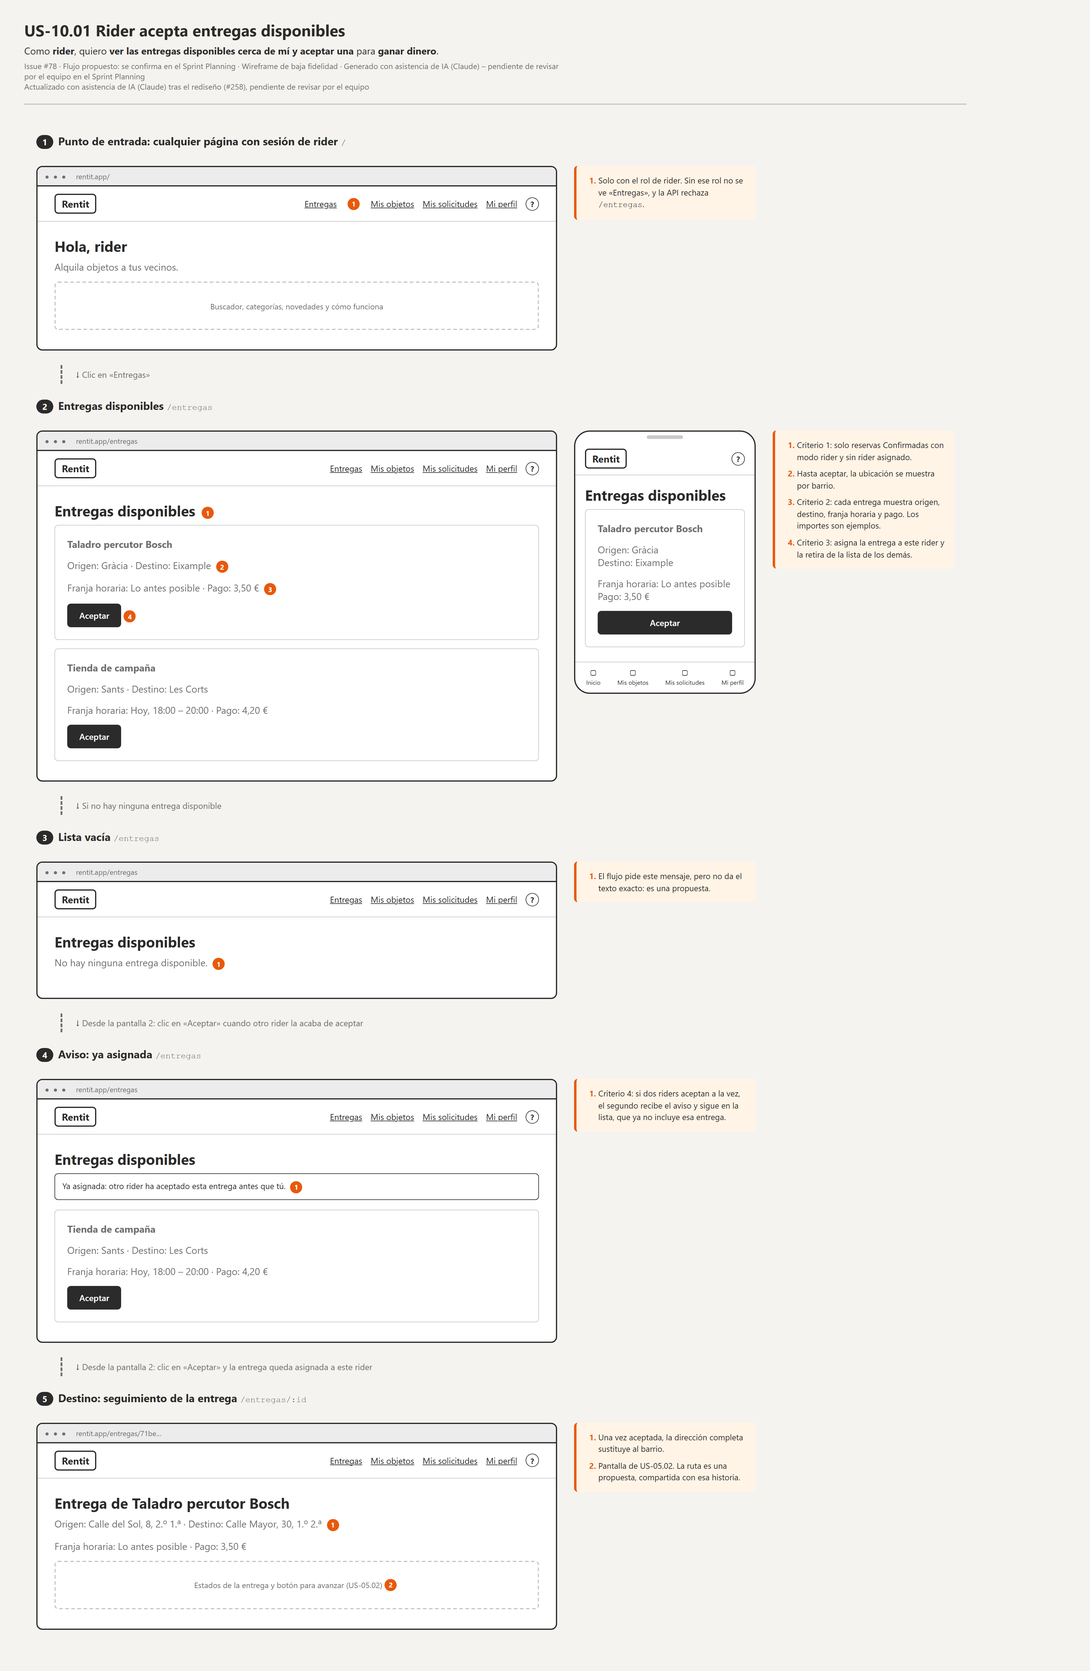
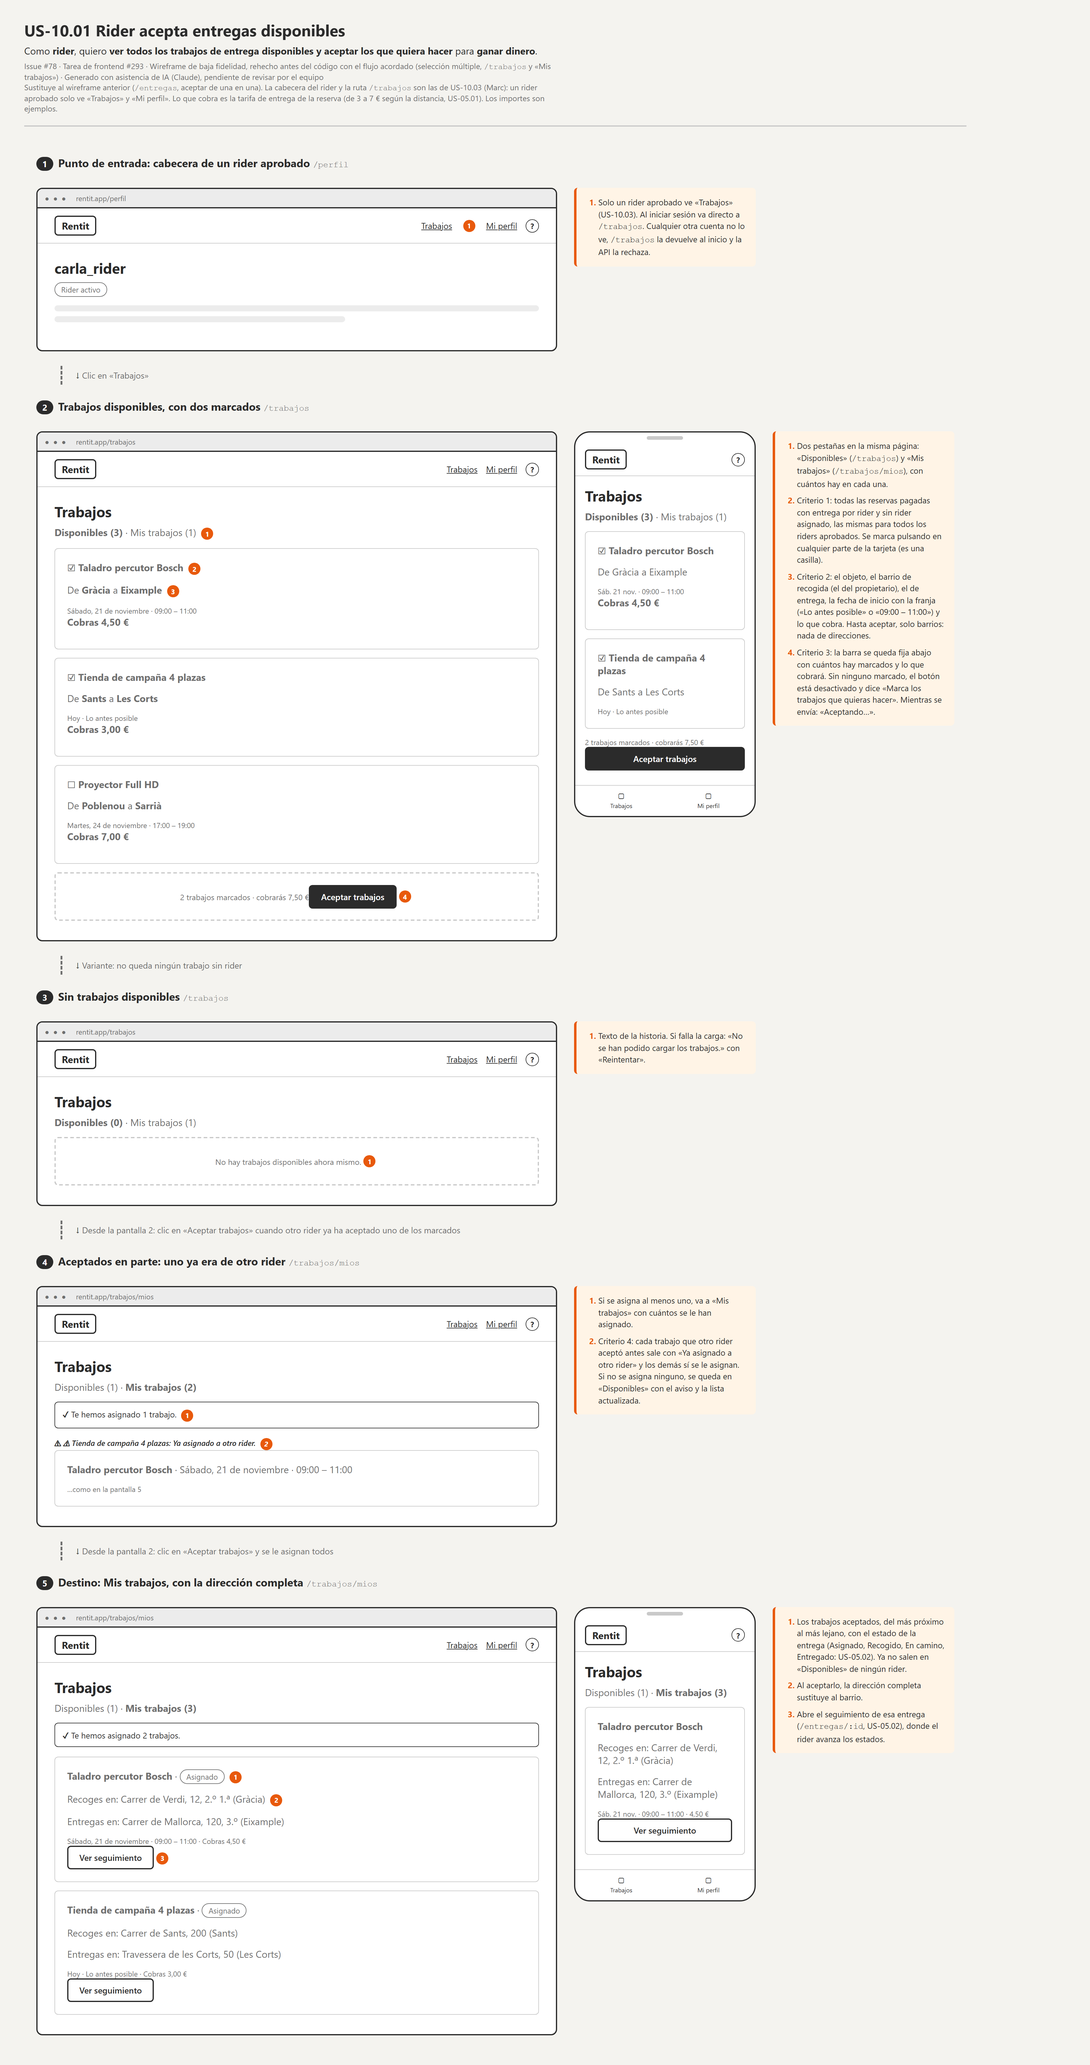
docs(wireframe): US-10.01 panel del rider con selección múltiple y «Mis trabajos», antes del código (#293)

diff --git a/docs/wireframes/US-10.01-rider-entregas/index.html b/docs/wireframes/US-10.01-rider-entregas/index.html
@@ -9,174 +9,236 @@
     <header class="wf-doc">
       <h1>US-10.01 Rider acepta entregas disponibles</h1>
       <p class="wf-historia">
-        Como <strong>rider</strong>, quiero <strong>ver las entregas disponibles cerca de mí y aceptar una</strong> para
-        <strong>ganar dinero</strong>.
+        Como <strong>rider</strong>, quiero <strong>ver todos los trabajos de entrega disponibles y aceptar los que quiera
+        hacer</strong> para <strong>ganar dinero</strong>.
       </p>
       <p class="wf-meta">
-        Issue #78 · Flujo propuesto: se confirma en el Sprint Planning · Wireframe de baja fidelidad · Generado con
-        asistencia de IA (Claude) – pendiente de revisar por el equipo en el Sprint Planning
+        Issue #78 · Tarea de frontend #293 · Wireframe de baja fidelidad, rehecho antes del código con el flujo acordado
+        (selección múltiple, <code>/trabajos</code> y «Mis trabajos») · Generado con asistencia de IA (Claude), pendiente
+        de revisar por el equipo
       </p>
-      <p class="wf-meta">Actualizado con asistencia de IA (Claude) tras el rediseño (#258), pendiente de revisar por el equipo</p>
+      <p class="wf-meta">
+        Sustituye al wireframe anterior (<code>/entregas</code>, aceptar de una en una). La cabecera del rider y la ruta
+        <code>/trabajos</code> son las de US-10.03 (Marc): un rider aprobado solo ve «Trabajos» y «Mi perfil». Lo que cobra
+        es la tarifa de entrega de la reserva (de 3 a 7 € según la distancia, US-05.01). Los importes son ejemplos.
+      </p>
     </header>
 
     <section class="wf-pantalla" data-captura="1-entrada">
-      <h2><span class="wf-paso">1</span>Punto de entrada: cualquier página con sesión de rider <code>/</code></h2>
+      <h2><span class="wf-paso">1</span>Punto de entrada: cabecera de un rider aprobado <code>/perfil</code></h2>
       <div class="wf-dispositivos">
-        <div class="wf-escritorio" data-url="rentit.app/">
+        <div class="wf-escritorio" data-url="rentit.app/perfil">
           <nav class="wf-nav">
             <span class="wf-logo">Rentit</span>
-            <span class="wf-enlaces">
-              <span class="wf-enlace">Entregas</span><span class="wf-marca">1</span>
-              <span class="wf-enlace">Mis objetos</span>
-              <span class="wf-enlace">Mis solicitudes</span>
-              <span class="wf-enlace">Mi perfil</span><span class="wf-icono-ayuda" title="Ayuda">?</span></span>
+            <span class="wf-enlaces"><span class="wf-enlace">Trabajos</span><span class="wf-marca">1</span><span class="wf-enlace">Mi perfil</span><span class="wf-icono-ayuda" title="Ayuda">?</span></span>
           </nav>
           <div class="wf-contenido">
-            <h3 class="wf-h1">Hola, rider</h3>
-            <p class="wf-texto">Alquila objetos a tus vecinos.</p>
-            <div class="wf-caja">Buscador, categorías, novedades y cómo funciona</div>
+            <h3 class="wf-h1">carla_rider</h3>
+            <p class="wf-texto"><span class="wf-chip">Rider activo</span></p>
+            <div class="wf-lineas"><span></span><span></span></div>
           </div>
         </div>
       </div>
       <ol class="wf-notas">
-        <li>Solo con el rol de rider. Sin ese rol no se ve «Entregas», y la API rechaza <code>/entregas</code>.</li>
+        <li>
+          Solo un rider aprobado ve «Trabajos» (US-10.03). Al iniciar sesión va directo a <code>/trabajos</code>. Cualquier
+          otra cuenta no lo ve, <code>/trabajos</code> la devuelve al inicio y la API la rechaza.
+        </li>
       </ol>
     </section>
 
-    <p class="wf-flecha">Clic en «Entregas»</p>
+    <p class="wf-flecha">Clic en «Trabajos»</p>
 
-    <section class="wf-pantalla" data-captura="2-lista">
-      <h2><span class="wf-paso">2</span>Entregas disponibles <code>/entregas</code></h2>
+    <section class="wf-pantalla" data-captura="2-disponibles">
+      <h2><span class="wf-paso">2</span>Trabajos disponibles, con dos marcados <code>/trabajos</code></h2>
       <div class="wf-dispositivos">
-        <div class="wf-escritorio" data-url="rentit.app/entregas">
+        <div class="wf-escritorio" data-url="rentit.app/trabajos">
           <nav class="wf-nav">
             <span class="wf-logo">Rentit</span>
-            <span class="wf-enlaces">
-              <span class="wf-enlace">Entregas</span>
-              <span class="wf-enlace">Mis objetos</span>
-              <span class="wf-enlace">Mis solicitudes</span>
-              <span class="wf-enlace">Mi perfil</span><span class="wf-icono-ayuda" title="Ayuda">?</span></span>
+            <span class="wf-enlaces"><span class="wf-enlace">Trabajos</span><span class="wf-enlace">Mi perfil</span><span class="wf-icono-ayuda" title="Ayuda">?</span></span>
           </nav>
           <div class="wf-contenido">
-            <h3 class="wf-h1">Entregas disponibles <span class="wf-marca">1</span></h3>
+            <h3 class="wf-h1">Trabajos</h3>
+            <p class="wf-texto"><strong>Disponibles (3)</strong> · Mis trabajos (1) <span class="wf-marca">1</span></p>
             <div class="wf-tarjeta">
-              <p class="wf-texto"><strong>Taladro percutor Bosch</strong></p>
-              <p class="wf-texto">Origen: Gràcia · Destino: Eixample <span class="wf-marca">2</span></p>
-              <p class="wf-texto">Franja horaria: Lo antes posible · Pago: 3,50 € <span class="wf-marca">3</span></p>
-              <span class="wf-boton">Aceptar</span><span class="wf-marca">4</span>
+              <p class="wf-texto">☑ <strong>Taladro percutor Bosch</strong> <span class="wf-marca">2</span></p>
+              <p class="wf-texto">De <strong>Gràcia</strong> a <strong>Eixample</strong> <span class="wf-marca">3</span></p>
+              <p class="wf-ayuda">Sábado, 21 de noviembre · 09:00 – 11:00</p>
+              <p class="wf-texto"><strong>Cobras 4,50 €</strong></p>
             </div>
             <p class="wf-texto"></p>
             <div class="wf-tarjeta">
-              <p class="wf-texto"><strong>Tienda de campaña</strong></p>
-              <p class="wf-texto">Origen: Sants · Destino: Les Corts</p>
-              <p class="wf-texto">Franja horaria: Hoy, 18:00 – 20:00 · Pago: 4,20 €</p>
-              <span class="wf-boton">Aceptar</span>
+              <p class="wf-texto">☑ <strong>Tienda de campaña 4 plazas</strong></p>
+              <p class="wf-texto">De <strong>Sants</strong> a <strong>Les Corts</strong></p>
+              <p class="wf-ayuda">Hoy · Lo antes posible</p>
+              <p class="wf-texto"><strong>Cobras 3,00 €</strong></p>
+            </div>
+            <p class="wf-texto"></p>
+            <div class="wf-tarjeta">
+              <p class="wf-texto">☐ <strong>Proyector Full HD</strong></p>
+              <p class="wf-texto">De <strong>Poblenou</strong> a <strong>Sarrià</strong></p>
+              <p class="wf-ayuda">Martes, 24 de noviembre · 17:00 – 19:00</p>
+              <p class="wf-texto"><strong>Cobras 7,00 €</strong></p>
+            </div>
+            <p class="wf-texto"></p>
+            <div class="wf-caja">2 trabajos marcados · cobrarás 7,50 € <span class="wf-boton">Aceptar trabajos</span> <span class="wf-marca">4</span></div>
+          </div>
+        </div>
+        <div class="wf-movil">
+          <nav class="wf-nav"><span class="wf-logo">Rentit</span><span class="wf-icono-ayuda" title="Ayuda">?</span></nav>
+          <div class="wf-contenido">
+            <h3 class="wf-h1">Trabajos</h3>
+            <p class="wf-texto"><strong>Disponibles (3)</strong> · Mis trabajos (1)</p>
+            <div class="wf-tarjeta">
+              <p class="wf-texto">☑ <strong>Taladro percutor Bosch</strong></p>
+              <p class="wf-texto">De Gràcia a Eixample</p>
+              <p class="wf-ayuda">Sáb. 21 nov. · 09:00 – 11:00</p>
+              <p class="wf-texto"><strong>Cobras 4,50 €</strong></p>
+            </div>
+            <p class="wf-texto"></p>
+            <div class="wf-tarjeta">
+              <p class="wf-texto">☑ <strong>Tienda de campaña 4 plazas</strong></p>
+              <p class="wf-texto">De Sants a Les Corts</p>
+              <p class="wf-ayuda">Hoy · Lo antes posible</p>
+            </div>
+            <p class="wf-texto"></p>
+            <p class="wf-ayuda">2 trabajos marcados · cobrarás 7,50 €</p>
+            <span class="wf-boton wf-ancho">Aceptar trabajos</span>
+          </div>
+          <div class="wf-barra-inferior"><span>Trabajos</span><span>Mi perfil</span></div>
+        </div>
+      </div>
+      <ol class="wf-notas">
+        <li>
+          Dos pestañas en la misma página: «Disponibles» (<code>/trabajos</code>) y «Mis trabajos»
+          (<code>/trabajos/mios</code>), con cuántos hay en cada una.
+        </li>
+        <li>
+          Criterio 1: todas las reservas pagadas con entrega por rider y sin rider asignado, las mismas para todos los riders
+          aprobados. Se marca pulsando en cualquier parte de la tarjeta (es una casilla).
+        </li>
+        <li>
+          Criterio 2: el objeto, el barrio de recogida (el del propietario), el de entrega, la fecha de inicio con la franja
+          («Lo antes posible» o «09:00 – 11:00») y lo que cobra. Hasta aceptar, solo barrios: nada de direcciones.
+        </li>
+        <li>
+          Criterio 3: la barra se queda fija abajo con cuántos hay marcados y lo que cobrará. Sin ninguno marcado, el botón
+          está desactivado y dice «Marca los trabajos que quieras hacer». Mientras se envía: «Aceptando…».
+        </li>
+      </ol>
+    </section>
+
+    <p class="wf-flecha">Variante: no queda ningún trabajo sin rider</p>
+
+    <section class="wf-pantalla" data-captura="3-sin-trabajos">
+      <h2><span class="wf-paso">3</span>Sin trabajos disponibles <code>/trabajos</code></h2>
+      <div class="wf-dispositivos">
+        <div class="wf-escritorio" data-url="rentit.app/trabajos">
+          <nav class="wf-nav">
+            <span class="wf-logo">Rentit</span>
+            <span class="wf-enlaces"><span class="wf-enlace">Trabajos</span><span class="wf-enlace">Mi perfil</span><span class="wf-icono-ayuda" title="Ayuda">?</span></span>
+          </nav>
+          <div class="wf-contenido">
+            <h3 class="wf-h1">Trabajos</h3>
+            <p class="wf-texto"><strong>Disponibles (0)</strong> · Mis trabajos (1)</p>
+            <div class="wf-caja">No hay trabajos disponibles ahora mismo. <span class="wf-marca">1</span></div>
+          </div>
+        </div>
+      </div>
+      <ol class="wf-notas">
+        <li>
+          Texto de la historia. Si falla la carga: «No se han podido cargar los trabajos.» con «Reintentar».
+        </li>
+      </ol>
+    </section>
+
+    <p class="wf-flecha">Desde la pantalla 2: clic en «Aceptar trabajos» cuando otro rider ya ha aceptado uno de los marcados</p>
+
+    <section class="wf-pantalla" data-captura="4-ya-asignado">
+      <h2><span class="wf-paso">4</span>Aceptados en parte: uno ya era de otro rider <code>/trabajos/mios</code></h2>
+      <div class="wf-dispositivos">
+        <div class="wf-escritorio" data-url="rentit.app/trabajos/mios">
+          <nav class="wf-nav">
+            <span class="wf-logo">Rentit</span>
+            <span class="wf-enlaces"><span class="wf-enlace">Trabajos</span><span class="wf-enlace">Mi perfil</span><span class="wf-icono-ayuda" title="Ayuda">?</span></span>
+          </nav>
+          <div class="wf-contenido">
+            <h3 class="wf-h1">Trabajos</h3>
+            <p class="wf-texto">Disponibles (1) · <strong>Mis trabajos (2)</strong></p>
+            <p class="wf-aviso">✔ Te hemos asignado 1 trabajo. <span class="wf-marca">1</span></p>
+            <p class="wf-error">⚠ Tienda de campaña 4 plazas: Ya asignado a otro rider. <span class="wf-marca">2</span></p>
+            <div class="wf-tarjeta">
+              <p class="wf-texto"><strong>Taladro percutor Bosch</strong> · Sábado, 21 de noviembre · 09:00 – 11:00</p>
+              <p class="wf-ayuda">…como en la pantalla 5</p>
+            </div>
+          </div>
+        </div>
+      </div>
+      <ol class="wf-notas">
+        <li>Si se asigna al menos uno, va a «Mis trabajos» con cuántos se le han asignado.</li>
+        <li>
+          Criterio 4: cada trabajo que otro rider aceptó antes sale con «Ya asignado a otro rider» y los demás sí se le
+          asignan. Si no se asigna ninguno, se queda en «Disponibles» con el aviso y la lista actualizada.
+        </li>
+      </ol>
+    </section>
+
+    <p class="wf-flecha">Desde la pantalla 2: clic en «Aceptar trabajos» y se le asignan todos</p>
+
+    <section class="wf-pantalla" data-captura="5-mis-trabajos">
+      <h2><span class="wf-paso">5</span>Destino: Mis trabajos, con la dirección completa <code>/trabajos/mios</code></h2>
+      <div class="wf-dispositivos">
+        <div class="wf-escritorio" data-url="rentit.app/trabajos/mios">
+          <nav class="wf-nav">
+            <span class="wf-logo">Rentit</span>
+            <span class="wf-enlaces"><span class="wf-enlace">Trabajos</span><span class="wf-enlace">Mi perfil</span><span class="wf-icono-ayuda" title="Ayuda">?</span></span>
+          </nav>
+          <div class="wf-contenido">
+            <h3 class="wf-h1">Trabajos</h3>
+            <p class="wf-texto">Disponibles (1) · <strong>Mis trabajos (3)</strong></p>
+            <p class="wf-aviso">✔ Te hemos asignado 2 trabajos.</p>
+            <div class="wf-tarjeta">
+              <p class="wf-texto"><strong>Taladro percutor Bosch</strong> · <span class="wf-chip">Asignado</span> <span class="wf-marca">1</span></p>
+              <p class="wf-texto">Recoges en: Carrer de Verdi, 12, 2.º 1.ª (Gràcia) <span class="wf-marca">2</span></p>
+              <p class="wf-texto">Entregas en: Carrer de Mallorca, 120, 3.º (Eixample)</p>
+              <p class="wf-ayuda">Sábado, 21 de noviembre · 09:00 – 11:00 · Cobras 4,50 €</p>
+              <span class="wf-boton wf-secundario">Ver seguimiento</span><span class="wf-marca">3</span>
+            </div>
+            <p class="wf-texto"></p>
+            <div class="wf-tarjeta">
+              <p class="wf-texto"><strong>Tienda de campaña 4 plazas</strong> · <span class="wf-chip">Asignado</span></p>
+              <p class="wf-texto">Recoges en: Carrer de Sants, 200 (Sants)</p>
+              <p class="wf-texto">Entregas en: Travessera de les Corts, 50 (Les Corts)</p>
+              <p class="wf-ayuda">Hoy · Lo antes posible · Cobras 3,00 €</p>
+              <span class="wf-boton wf-secundario">Ver seguimiento</span>
             </div>
           </div>
         </div>
         <div class="wf-movil">
           <nav class="wf-nav"><span class="wf-logo">Rentit</span><span class="wf-icono-ayuda" title="Ayuda">?</span></nav>
           <div class="wf-contenido">
-            <h3 class="wf-h1">Entregas disponibles</h3>
+            <h3 class="wf-h1">Trabajos</h3>
+            <p class="wf-texto">Disponibles (1) · <strong>Mis trabajos (3)</strong></p>
             <div class="wf-tarjeta">
               <p class="wf-texto"><strong>Taladro percutor Bosch</strong></p>
-              <p class="wf-texto">Origen: Gràcia<br />Destino: Eixample</p>
-              <p class="wf-texto">Franja horaria: Lo antes posible<br />Pago: 3,50 €</p>
-              <span class="wf-boton wf-ancho">Aceptar</span>
+              <p class="wf-texto">Recoges en: Carrer de Verdi, 12, 2.º 1.ª (Gràcia)</p>
+              <p class="wf-texto">Entregas en: Carrer de Mallorca, 120, 3.º (Eixample)</p>
+              <p class="wf-ayuda">Sáb. 21 nov. · 09:00 – 11:00 · 4,50 €</p>
+              <span class="wf-boton wf-secundario wf-ancho">Ver seguimiento</span>
             </div>
           </div>
-          <div class="wf-barra-inferior"><span>Inicio</span><span>Mis objetos</span><span>Mis solicitudes</span><span>Mi perfil</span></div>
+          <div class="wf-barra-inferior"><span>Trabajos</span><span>Mi perfil</span></div>
         </div>
       </div>
       <ol class="wf-notas">
-        <li>Criterio 1: solo reservas Confirmadas con modo rider y sin rider asignado.</li>
-        <li>Hasta aceptar, la ubicación se muestra por barrio.</li>
-        <li>Criterio 2: cada entrega muestra origen, destino, franja horaria y pago. Los importes son ejemplos.</li>
-        <li>Criterio 3: asigna la entrega a este rider y la retira de la lista de los demás.</li>
-      </ol>
-    </section>
-
-    <p class="wf-flecha">Si no hay ninguna entrega disponible</p>
-
-    <section class="wf-pantalla" data-captura="3-sin-entregas">
-      <h2><span class="wf-paso">3</span>Lista vacía <code>/entregas</code></h2>
-      <div class="wf-dispositivos">
-        <div class="wf-escritorio" data-url="rentit.app/entregas">
-          <nav class="wf-nav">
-            <span class="wf-logo">Rentit</span>
-            <span class="wf-enlaces">
-              <span class="wf-enlace">Entregas</span>
-              <span class="wf-enlace">Mis objetos</span>
-              <span class="wf-enlace">Mis solicitudes</span>
-              <span class="wf-enlace">Mi perfil</span><span class="wf-icono-ayuda" title="Ayuda">?</span></span>
-          </nav>
-          <div class="wf-contenido">
-            <h3 class="wf-h1">Entregas disponibles</h3>
-            <p class="wf-texto">No hay ninguna entrega disponible. <span class="wf-marca">1</span></p>
-          </div>
-        </div>
-      </div>
-      <ol class="wf-notas">
-        <li>El flujo pide este mensaje, pero no da el texto exacto: es una propuesta.</li>
-      </ol>
-    </section>
-
-    <p class="wf-flecha">Desde la pantalla 2: clic en «Aceptar» cuando otro rider la acaba de aceptar</p>
-
-    <section class="wf-pantalla" data-captura="4-ya-asignada">
-      <h2><span class="wf-paso">4</span>Aviso: ya asignada <code>/entregas</code></h2>
-      <div class="wf-dispositivos">
-        <div class="wf-escritorio" data-url="rentit.app/entregas">
-          <nav class="wf-nav">
-            <span class="wf-logo">Rentit</span>
-            <span class="wf-enlaces">
-              <span class="wf-enlace">Entregas</span>
-              <span class="wf-enlace">Mis objetos</span>
-              <span class="wf-enlace">Mis solicitudes</span>
-              <span class="wf-enlace">Mi perfil</span><span class="wf-icono-ayuda" title="Ayuda">?</span></span>
-          </nav>
-          <div class="wf-contenido">
-            <h3 class="wf-h1">Entregas disponibles</h3>
-            <p class="wf-aviso">Ya asignada: otro rider ha aceptado esta entrega antes que tú. <span class="wf-marca">1</span></p>
-            <div class="wf-tarjeta">
-              <p class="wf-texto"><strong>Tienda de campaña</strong></p>
-              <p class="wf-texto">Origen: Sants · Destino: Les Corts</p>
-              <p class="wf-texto">Franja horaria: Hoy, 18:00 – 20:00 · Pago: 4,20 €</p>
-              <span class="wf-boton">Aceptar</span>
-            </div>
-          </div>
-        </div>
-      </div>
-      <ol class="wf-notas">
-        <li>Criterio 4: si dos riders aceptan a la vez, el segundo recibe el aviso y sigue en la lista, que ya no incluye esa entrega.</li>
-      </ol>
-    </section>
-
-    <p class="wf-flecha">Desde la pantalla 2: clic en «Aceptar» y la entrega queda asignada a este rider</p>
-
-    <section class="wf-pantalla" data-captura="5-destino-seguimiento">
-      <h2><span class="wf-paso">5</span>Destino: seguimiento de la entrega <code>/entregas/:id</code></h2>
-      <div class="wf-dispositivos">
-        <div class="wf-escritorio" data-url="rentit.app/entregas/71be…">
-          <nav class="wf-nav">
-            <span class="wf-logo">Rentit</span>
-            <span class="wf-enlaces">
-              <span class="wf-enlace">Entregas</span>
-              <span class="wf-enlace">Mis objetos</span>
-              <span class="wf-enlace">Mis solicitudes</span>
-              <span class="wf-enlace">Mi perfil</span><span class="wf-icono-ayuda" title="Ayuda">?</span></span>
-          </nav>
-          <div class="wf-contenido">
-            <h3 class="wf-h1">Entrega de Taladro percutor Bosch</h3>
-            <p class="wf-texto">Origen: Calle del Sol, 8, 2.º 1.ª · Destino: Calle Mayor, 30, 1.º 2.ª <span class="wf-marca">1</span></p>
-            <p class="wf-texto">Franja horaria: Lo antes posible · Pago: 3,50 €</p>
-            <div class="wf-caja">Estados de la entrega y botón para avanzar (US-05.02) <span class="wf-marca">2</span></div>
-          </div>
-        </div>
-      </div>
-      <ol class="wf-notas">
-        <li>Una vez aceptada, la dirección completa sustituye al barrio.</li>
-        <li>Pantalla de US-05.02. La ruta es una propuesta, compartida con esa historia.</li>
+        <li>
+          Los trabajos aceptados, del más próximo al más lejano, con el estado de la entrega (Asignado, Recogido, En
+          camino, Entregado: US-05.02). Ya no salen en «Disponibles» de ningún rider.
+        </li>
+        <li>Al aceptarlo, la dirección completa sustituye al barrio.</li>
+        <li>
+          Abre el seguimiento de esa entrega (<code>/entregas/:id</code>, US-05.02), donde el rider avanza los estados.
+        </li>
       </ol>
     </section>
   </body>
